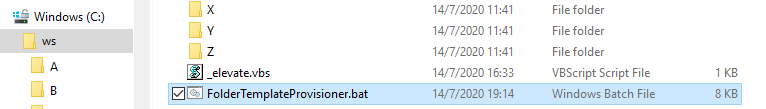
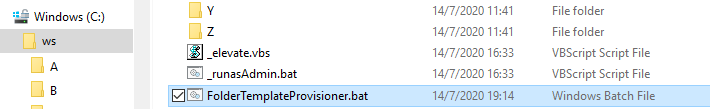
Version 1.2
- Support of network-shared folder in UNC form ('\\...') is available
- Support of non-admin users is provided by 'runas /savecred'
- Remove support of UNC-unsupported error-checking cases

diff --git a/README.md b/README.md
@@ -1,55 +1,55 @@
 # Folder Template Provisioner
 
-This Windows batch script provisions (copies) new folders with exact permissions and content from a specified existing folder (template) based on the information (first name and last name) inputted by a user via its command-line interface.
+This Windows batch script provisions (copies) new folders with exact permissions and content from a specified existing folder (template) based on the information inputted by a user via its command-line interface. It hopes to reduce the burden of Windows admins by handling over the task of folder provisioning to users.
 
-It solves a problem using `robocopy /MIR /COPYALL` in which folders copied using Windows Explorer (a.k.a. File Explorer) may not retain unique permissions and inherit permissions from parent folder.
+It uses `robocopy /MIR /COPYALL /ZB` (built-in) to solve the problem where folders copied using Windows Explorer (a.k.a. File Explorer) may not retain unique permissions and inherit permissions from parent folder.
 
-The script has been designed with care to improve usability and avoid accidental deletion.
+## What's New
+
+- Support of network-shared folder in UNC form (`\\...`)
+- Partial support of non-admin users, made possible with `runas /savecred`
 
 ## Features
 
 - Accept input from user
-  - First name and last name
+  - First name and last name (feel free to modify them for other use cases where appropriate) 
 - Copy a new folder using specified template folder retaining exact permissions and content using `robocopy /MIR /COPYALL` named in `LASTNAME, First Name` format according to user input
-- Protection
-  - Guard against data loss if target folder already exists
-    - Target folder is popped up for user to check
-    - Confirmation from user is required before continuing
-  - Validate source template folder and target folder before running `robocopy`
-- Automatic UAC prompt
+- Support of network-shared folder in UNC form (`\\...`) is available
+  - In other words, for drives mapped using a drive letters, they are supported by specifying the UNC path within this script. See [How to Set up the Scripts](#user-content-step-by-step---how-to-provision-a-new-folder) section below
+  - To test or use this script for non-network cases (local drives) from v1.2 and on, specify `\\127.0.0.1\...` or `\\localhost\...` where required
+- Support of admin users with UAC enabled
   - Automatically elevate the script to run it as admin if UAC (User Account Control) is enabled but admin rights are unavailable. This requires an optional script in the same folder (`_elevate.vbs`)
+- Partial support of non-admin users using `runas /savecred` (built-in)
+  - If users do not have admin rights, `_runasAdmin.bat` (included optional script) can be edited to leverage `runas /savecred` to run `FolderTemplateProvisioner.bat` (main script) as admin without entering admin credentials
+  - Also refer to [Security Notes](#user-content-security-note) on the risk involved naturally with `runas /savecred`
 - Error checking and messages available
   - Windows Script Host is unavailable (for the UAC elevation VBScript)
   - Admin rights are unavailable
   - Invalid first name / last name
-  - Target `A-Z` folder is invalid or inaccessible
-  - Template folder name does not exist in target location or wrongly defined in the script
-  - Target folder already exists, requiring user to confirm
   - File copy (folder template provisioning) failure and the `robocopy` return code
 - Confirmation prompt
-  - Names inputted by user are shown again for review and confirmation
-  - A folder with the same name already exists, where confirmation is required from user before continuing, as `robocopy /MIR` (mirror), the command responsible for copying folder templates, would result in loss of data in existing folder
-- Pop up target folder automatically for convenience
-  - Optionally at the end of successful folder creation
-  - Or, when a folder with the same name already exists, where confirmation is required from user before continuing
+  - Names inputted by user are shown again for review and confirmation, requesting user to confirm there is no existing files
 - Logging
   - A `robocopy` log file is saved and appended to `%Temp%\FolderCreator.log`. As this is not meant to be permanent, it can get deleted by system shortly afterwards
 
 ## Requirements
 
 1. Windows OS with `robocopy`
-2. Administrator rights (required by `robocopy /COPYALL`, referring to the last screenshot in this README document)
+2. admin rights (with or without UAC)
+3. Non-admin rights (partially supported with an optional setup on `_runasAdmin.bat`)
 
 ## Script Filenames
 
 1. `FolderTemplateProvisioner.bat` (main script)
-2. `_elevate.vbs` (optional, for UAC elevation if admin rights are unavailable, provided that User Account Control is enabled in the system)
+2. `_elevate.vbs` (optional, for admin users with UAC turned on, trigger UAC elevation prompt)
+3. `_runasAdmin.bat` (optional, for non-admin users to leverage `runas /savecred` to run as admin)
 
 ## Folder Hierarchy
 
 ```c
 │ FolderTemplateProvisioner.bat // main script
-│ _elevate.vbs // UAC elevation script (optional)
+│ _elevate.vbs // For admin users with UAC enabled to auto-trigger UAC prompt (optional)
+│ _runasAdmin.bat // For non-admins to run as admin without admin credentials (optional)
 │
 ├───ZZ IT_do not use\01 Template Folder // Template folder (this can be a sub-folder)
 │                                       // with folders/files of set permissions to copy
@@ -70,18 +70,43 @@ The script has been designed with care to improve usability and avoid accidental
 └───Z
 ```
 
-## Steps by Step - How to Set up the Scripts
+## Step by Step - How to Set up the Scripts
 
-1. Edit `templateName` variable at the upper area of `FolderTemplateProvisioner.bat` script by setting it to the folder acting as the template, e.g. `ZZ IT_do not use\01 Template Folder`, with required files and permissions prepared inside
-2. Place both scripts (`FolderTemplateProvisioner.bat` and optionally `_elevate.vbs`) inside a folder containing `A,B,C...Z` sub-folders, sitting beside them. The `A-Z` folders contains the template folder and provisioned folders named '`LASTNAME, Firstname`' copied by the script from the template folder
+**Step 1**. Skip this step and go straight to step 2 if users have admin rights. This is for cases where users executing the script do not have admin rights.
+
+Edit the UNC path in `_runasAdmin.bat` setting it to the the script path, e.g. `\\serverName\d$\Human Resources\01_Personnel-Files\FolderTemplateProvisioner.bat`
+
+- It must be a UNC path starting with "\\" instead of a drive letter
+
+Edit `/u:DOMAIN\username` by changing `DOMAIN` to the Active Directory domain name (NETBIOS name), and the `username` as the admin user. For non-domain (workgroup) scenarios, `DOMAIN` can be skipped by removing `DOMAIN\`
+
+- If a non-domain account is specified, `runas` command still requires the PC to be connected to domain. This appears to be a limitation of `runas`
+
+- User Account Control (UAC) has to be disabled, i.e. setting `EnableLUA` to `0` under Windows registry `HKEY_LOCAL_MACHINE\SOFTWARE\Microsoft\Windows\CurrentVersion\Policies\System`, or the target runas user is the [built-in domain or local Administrator account](https://docs.microsoft.com/en-us/windows/security/threat-protection/security-policy-settings/user-account-control-admin-approval-mode-for-the-built-in-administrator-account) which is unaffected by UAC.
+
+  - Kindly ensure the [group policy](https://docs.microsoft.com/en-us/windows/security/threat-protection/security-policy-settings/user-account-control-admin-approval-mode-for-the-built-in-administrator-account) `User Account Control: Use Admin Approval Mode for the built-in Administrator account` is `undefined` or `disabled`; otherwise, it may prevent the built-in administrator account from bypassing UAC limitations (in case this approach is chosen instead of disabling UAC)
+
+Before `_runasAdmin.bat` (or the `runas /savecred ...` command) can be run by non-admin users, it needs to be **run once on PCs of users who need to use Folder Template Provisioner** without admin credentials. (The first run involves prompting for admin credentials where an admin needs to be there to input admin password once)
+
+**Step 2**. Edit `encPath` variable at the upper area of `FolderTemplateProvisioner.bat` script by setting it to the network folder containing the script, e.g. `\\serverName\d$\Human Resources\01_Personnel-Files`
+
+**Step 3**. Edit `templateName` variable at the upper area of `FolderTemplateProvisioner.bat` script by setting it to the folder acting as the template, e.g. `ZZ IT_do not use\01 Template Folder`, with required files and permissions inside
+
+**Step 4**. Place all scripts (`FolderTemplateProvisioner.bat`, optionally `_elevate.vbs` and `_runasAdmin.bat`) inside a folder containing `A,B...Z` sub-folders, sitting aside. The `A-Z` folders contains the template folder and provisioned folders named `LASTNAME, Firstname` copied by the script from the template folder
 
 ## Step by Step - How to Provision a New Folder
 
-1. Double-click `FolderTemplateProvisioner.bat` and follow on-screen instructions
-2. Input last name and first name
-3. Review the input
-4. Wait for `robocopy` file copy (folder template provisioning)
-5. Verify the created folder (which pops up optionally at the end)
+**Step 1**. Double-click `FolderTemplateProvisioner.bat` and follow on-screen instructions
+
+- For non-admin users, they should run `_runasAdmin.bat` instead
+
+**Step 2**. Input last name and first name
+
+**Step 3**. Review the input
+
+**Step 4**. Wait for `robocopy` file copy (folder template provisioning)
+
+**Step 5**. Verify the created folder
 
 ## Screenshots - Provisioning a New Folder with the Script
 
@@ -89,59 +114,71 @@ A. Run `FolderTemplateProvisioner.bat`
 
 ![Run FolderTemplateProvisioner.bat](_images/00-run-folder-template-provisioner.png)
 
-B. UAC elevation is prompted automatically when admin rights are unavailable, provided that an optional `_elevate.vbs` exists in the same folder
+**Note**: non-admins should run `_runasAdmin.bat` instead, available since v1.2
 
-![UAC elevation is prompted automatically when admin rights are unavailable, provided that an optional _elevate.vbs exists in the same folder](_images/01-automatic-uac-prompt.png)
+For admins with UAC enabled, a UAC elevation prompt (like the one below) is displayed automatically, provided that an optional `_elevate.vbs` exists in the same folder. (`_elevate.vbs` should not be run directly. Instead, run `FolderTemplateProvisioner.bat`)
 
-C. Input first name and last name
+![For admins with UAC enabled, UAC elevation prompt is displayed automatically, provided that an optional _elevate.vbs exists in the same folder](_images/01-automatic-uac-prompt.png)
+
+B. Input first name and last name
 
 ![Input first name and last name](_images/02-input-firstname-lastname.png)
 
-D. Review and confirm input
+C. Review and confirm input
 
 ![Review and confirm input](_images/03-review-and-confirm-input.png)
 
-E. Robocopy provisions new folder from folder template with exact content and permissions
+**Note**: Since v1.2, users would receive a message requesting them to ensure no folder of the same name exists in destination before continuing; otherwise, content would be overwritten.
+
+D. Robocopy provisions new folder from folder template with exact content and permissions
 
 ![Robocopy provisions new folder from folder template with exact content and permissions](_images/04-robocopy-provisions-new-folder-from-folder-template.png)
 
-F. Open folder after completion (optional)
-
-![Open folder after completion](_images/05-open-folder-after-completion.png)
-
-G. Verify created folder via the opened Windows Explorer
-
-![Verify created folder](_images/06-new-folder-created.png)
+**Note**: Since v1.2, users would receive a message at the end recommending them to verify the created folder at target location.
 
 ## Screenshots - Error Messages
 
-A. Target folder already exists
-
-![Error - Target folder already exists](_images/e01-target-folder-already-exists.png)
-
-B. Name inputted by user is invalid
+A. Name inputted by user is invalid
 
 ![Error - Name inputted by user is invalid](_images/e02-name-inputted-by-user-is-invalid.png)
 
-C. Target `A-Z` folder is invalid or inaccessible
-
-![Error - Target A-Z folder is invalid or inaccessible](_images/e03-target-az-folder-invalid-or-inaccessible.png)
-
-D. Source template folder does not exist or is wrongly defined within script
-
-![Error - Source template folder does not exist or is wrongly defined within script](_images/e04-source-template-folder-does-not-exist.png)
-
-E. No admin rights are detected, while UAC is off and/or the optional `_elevate.vbs` is not in the same folder
-
-![Error - No admin rights are detected, while UAC is off and/or the optional _elevate.vbs is not in the same folder](_images/e05-no-admin-rights-and-cannot-elevate-by-uac.png)
-
-F. Robocopy error ends with a return code presented to user
+B. Robocopy error ends with a return code presented to user
 
 ![Error - Robocopy error ends with a return code presented to user](_images/e06-robocopy-error-with-return-code.png)
+
+C. No admin rights are detected, while UAC is off and/or the optional `_elevate.vbs` is not in the same folder
+
+![Error - No admin rights are detected, while UAC is off and/or the optional '_elevate.vbs' is not in the same folder](_images/e05-no-admin-rights-and-cannot-elevate-by-uac.png)
+
+Other error messages include:
+
+- Windows Script Host is unavailable (for the UAC elevation VBScript)
+  
+## Security Note
+
+This part can be skipped if you don't let users use this set of scripts without admin rights.
+
+As with most technology that enables convenience, kindly beware of the natural security risk involved with `_runasAdmin.bat`, i.e. `runas /savecred`. In this case, a non-admin user would be able to use the `runas /savecred` command to run any command as an admin without entering a password. Please do understand such risk involved if you still would like to go ahead with the non-admin approach to using this script.
+
+## Another Possible Approach for Non-Admin
+
+This part can be skipped. It is only for enthusiasts wishing to modify this script to run it as non-admin without even using `_runasAdmin.bat` or `runas /savecred`.
+
+- Admins rights or the `_runasAdmin.bat` (`runas /savecred`) workaround for non-admin are already supported by this script. The below may not be suitable to all cases and hence, it is left as an idea for enthusiasts to attempt should it be desired.
+
+Several prerequisites and/or adjustments would be required (**experimental**):
+
+1. Remove `/ZB` parameter from the `robocopy` command in the script (note: `/ZB` uses backup operator rights to copy if permission is unavailable. This requires admin rights)
+2. Change `/COPYALL` to `/COPY:DATSO` (this removes the 'manage auditing' part which requires admin rights)
+3. The template folder should include the desired non-admin user as **owner** with **full** permission in the underlying folders
+4. Remove lines in this script between `attrib >nul 2>&1` and `:skipAdminCheckSubsequent`
+
+**Note**: The above is approach is experimental, hence unsupported.
 
 ## Release History
 
 | Ver | Date | Changes |
 | --- | --- | --- |
+| 1.2 | 20200730 | - Support of network-shared folder in UNC form (`\\...`) is available<br>- Support of non-admin users is provided by `runas /savecred`<br>- Remove support of UNC-unsupported error-checking cases |
 | 1.1 | 20200719 | Folder template consolidated as single folder instead of multiple ones within sub-folders |
 | 1.0 | 20200714 | [First release](https://github.com/wandersick/ws-folder-template-provisioner/tree/6b0c9aad5375afc5dfa0ef687daeeced399d642b) where template folders are located in each sub-folders |
